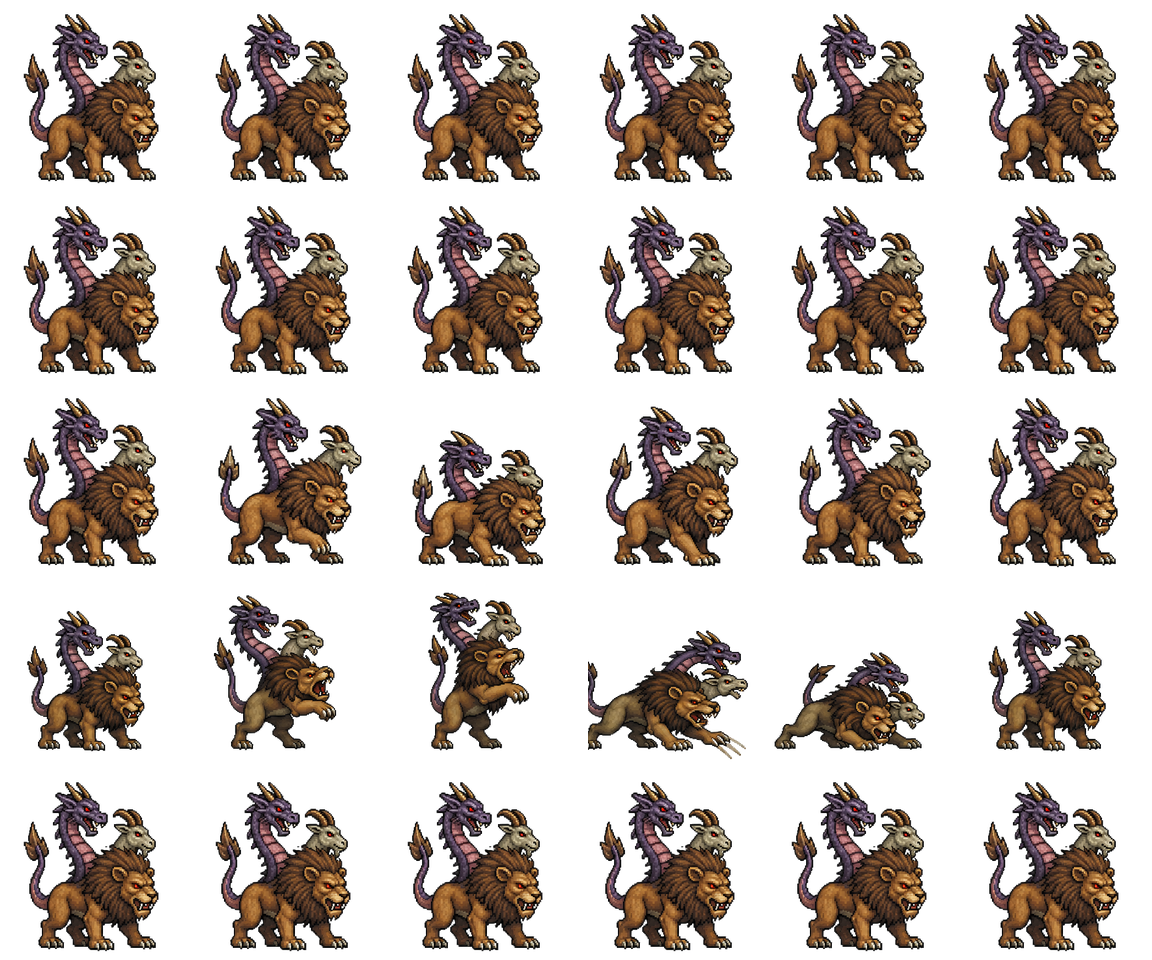
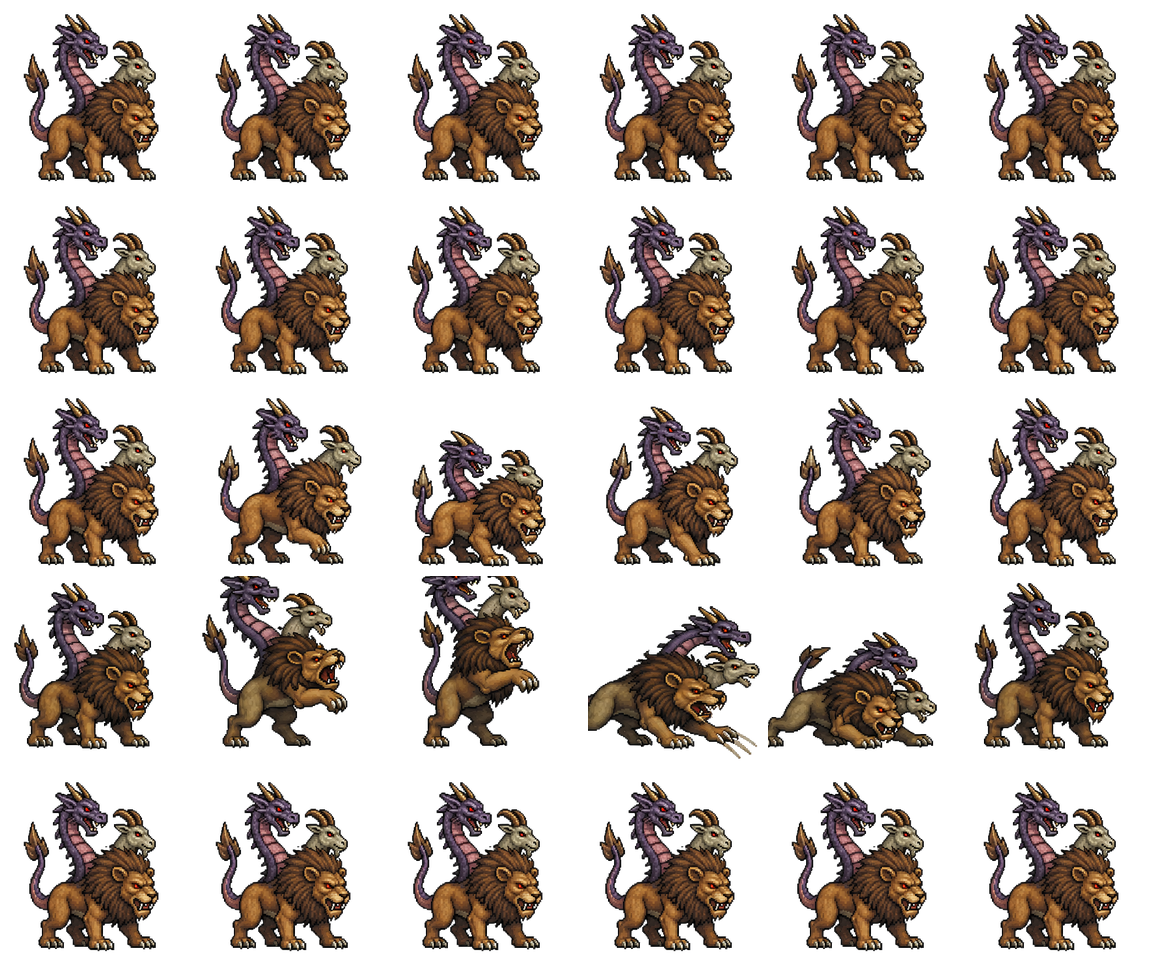
sprite: _extract.py の attack 体高を walk へ自動フィットし 10 シートのサイズ変動を解消
攻撃モーションに切り替わった瞬間にキャラの見かけの大きさが変わる不具合の B 系
(source_images/<dir>/_extract.py 経路) を潰す。A 系 (codex1 packer) は 9706173 で対応済み。

真因は「fs 共有の有無」ではなかった。対象 10 本のうち 6 本 (chimera/griffon/umber_hulk/
shadowBeast/mimic/direBear) は **既に shared_fs で walk と attack の fs を共有していた**
のに -22%〜+6% ずれていた。fs を共有しても出力体高は素材そのものの寄り(ズーム)差を
そのまま引き継ぐためで、fs 共有だけでは直らない。

- tools/attack_scale_fit.py を新設。fit_attack_fs() が attack の fs だけを反復調整し、
  体高中央値が walk と一致するところで止める。出力スケールは OUT_CELL/fs なので
  更新式は fs <- fs * (attack体高 / walk体高)。全 10 本が 1〜2 反復で収束した。
  体高計測は check_attack_scale.py の cell_metrics を import 共有 (抽出時と検証時で
  物差しを揃えるため複製しない)。
- fs を変えても出力上の足元位置は (fs - round(fs*0.05))/fs*OUT_CELL ≒ 0.95*OUT_CELL で
  fs 非依存なので、本補正はスケールだけを動かし立ち位置には触れない。実測でも feet の
  ずれは ±2px 以内に収まった (192px セルなら 1%)。
- cleric だけは出荷済み cleric_attack.png を焼いたスクリプトがリポジトリに無かったので
  source_images/cleric/_extract_attack.py を新設 (attack のみ・walk は読むだけ)。旧経路の
  normalize_attack_to_walk_height は **bbox 高**を揃える処理で、メイスを振り上げる攻撃では
  武器で bbox が伸びるため体高が +13.79% ずれて出荷されていた。あわせて足元揃え
  (walk と同じ y=91) も再現し、feetdx を +0.0 に戻した。
- index.html: 焼き直した 10 本の ?v= を bump。cleric_attack は ?v= 付き/無しの
  2 箇所に重複リテラルがあったので両方を ?v=3 に統一した。golem_soldier_attack /
  undead_squad_attack は ?v= を新設。walk シートは不変なので bump しない。
- source_images/ は .gitignore 済みのため _extract.py 側の改修はローカルのみ。

検証:
- check_attack_scale: 対象 10 本すべて |delta| < 5% (最悪 -0.36%)。
  WARN 11 -> 1 (残りは rat_bat のみ = source_images 不在につき別項目)。
  対象外 66 シートの delta 変化 0 件 (HEAD worktree との JSON 突き合わせ)。
[…]

diff --git a/index.html b/index.html
@@ -3776,7 +3776,7 @@
                  guard: WARRIOR_GUARD },
       dwarf:   { walk: 'url("assets/dwarf_walk.png?v=5")',   attack: 'url("assets/dwarf_attack.png?v=5")',
                  walkSize: "576px 384px", attackSize: "480px 384px" },
-      cleric:  { walk: 'url("assets/cleric_walk.png")',  attack: 'url("assets/cleric_attack.png")',
+      cleric:  { walk: 'url("assets/cleric_walk.png")',  attack: 'url("assets/cleric_attack.png?v=3")',
                  walkSize: "576px 384px", attackSize: "480px 384px" },
       mage:    { walk: 'url("assets/mage_walk.png?v=4")',    attack: 'url("assets/mage_attack.png?v=4")',
                  walkSize: "576px 384px", attackSize: "480px 384px" },
@@ -6264,7 +6264,7 @@
         name: "盗賊重装兵",
         flavor: "略奪した鎧を纏う前衛",
         badge: "🛡",
-        sprite: "assets/banditHeavy_anim.png?v=1",
+        sprite: "assets/banditHeavy_anim.png?v=2",
         sheetW: 576, sheetH: 480,
         frameW: 96, frameH: 96, cols: 6, rowOffset: 0,
         displaySize: 88,
@@ -6310,7 +6310,7 @@
         name: "残影の獣",
         flavor: "盗賊が捕えた六本足の黒豹、檻を破れば敵味方の区別なく襲う",
         badge: "🐾",
-        sprite: "assets/shadowBeast_anim.png?v=3",
+        sprite: "assets/shadowBeast_anim.png?v=4",
         sheetW: 1152, sheetH: 960,
         frameW: 192, frameH: 192, cols: 6, rowOffset: 0,
         displaySize: 192,                  // 2 タイル分の大型ミニボス
@@ -6479,7 +6479,7 @@
         name: "偽宝箱(ミミック)",
         flavor: "宝箱に擬態する古典の罠。触れた者を粘液で捉える",
         badge: "🧰",
-        sprite: "assets/mimic_anim.png?v=1",
+        sprite: "assets/mimic_anim.png?v=2",
         sheetW: 1152, sheetH: 960,
         frameW: 192, frameH: 192, cols: 6, rowOffset: 0,
         displaySize: 100,
@@ -6559,7 +6559,7 @@
         name: "Dire Bear",      // 2026-06-27: 表示名を英語化(怒れる巨熊→Dire Bear)
         flavor: "戦後の混乱に乗じて人里に下りた巨大な熊。手負いになるほど狂暴に吼える",
         badge: "🐻",
-        sprite: "assets/direBear_anim.png?v=1",   // 専用スプライト (2026-06-22 ChatGPT生成→192px大型ボス規格で抽出)
+        sprite: "assets/direBear_anim.png?v=2",   // 専用スプライト (2026-06-22 ChatGPT生成→192px大型ボス規格で抽出)
         sheetW: 1152, sheetH: 960,
         frameW: 192, frameH: 192, cols: 6, rowOffset: 0,
         displaySize: 220,                         // 大型ボスの威容 (歩行~103px / 立ち上がり咆哮~194px)
@@ -6585,7 +6585,7 @@
         name: "キマイラ",
         flavor: "獅子・山羊・竜の三つ首を持つ有翼の合成獣",
         badge: "🦁",
-        sprite: "assets/chimera_anim.png?v=1",  // 専用スプライト (獅子・山羊・竜の三つ首)
+        sprite: "assets/chimera_anim.png?v=2",  // 専用スプライト (獅子・山羊・竜の三つ首)
         sheetW: 1152, sheetH: 960,
         frameW: 192, frameH: 192, cols: 6, rowOffset: 0,
         displaySize: 260,                       // 2倍サイズ (192px原寸→アップスケール)
@@ -6615,7 +6615,7 @@
         name: "グリフォン",
         flavor: "鷲の翼と獅子の胴を持つ猛禽。空から急降下し鉤爪で獲物を引き裂く",
         badge: "🦅",
-        sprite: "assets/griffon_anim.png?v=1",  // 専用スプライト (2026-07-03 ChatGPT生成→192px大型ボス規格で抽出)
+        sprite: "assets/griffon_anim.png?v=2",  // 専用スプライト (2026-07-03 ChatGPT生成→192px大型ボス規格で抽出)
         sheetW: 1152, sheetH: 960,
         frameW: 192, frameH: 192, cols: 6, rowOffset: 0,
         displaySize: 240,                        // 2倍サイズ (192px原寸→アップスケール)
@@ -6644,7 +6644,7 @@
         name: "アンバーハルク",
         flavor: "岩を掘り進む甲殻の巨獣。四つの目が放つ眩惑の視線が正気を惑わす",
         badge: "🪲",
-        sprite: "assets/umber_hulk_anim.png?v=1",   // 専用スプライト (2026-07-03 生成・direBear と幾何完全一致)
+        sprite: "assets/umber_hulk_anim.png?v=2",   // 専用スプライト (2026-07-03 生成・direBear と幾何完全一致)
         sheetW: 1152, sheetH: 960,
         frameW: 192, frameH: 192, cols: 6, rowOffset: 0,
         displaySize: 240,                          // 2倍サイズ (192px原寸→アップスケール)
@@ -11350,7 +11350,7 @@
     const DWARF_ATTACK_SIZE = "480px 384px";
     const CLERIC_WALK_URL   = 'url("assets/cleric_walk.png?v=2")';
     const CLERIC_WALK_SIZE  = "576px 384px";
-    const CLERIC_ATTACK_URL = 'url("assets/cleric_attack.png?v=2")';
+    const CLERIC_ATTACK_URL = 'url("assets/cleric_attack.png?v=3")';
     const CLERIC_ATTACK_SIZE = "480px 384px";
     const MAGE_WALK_URL     = 'url("assets/mage_walk.png?v=4")';
     const MAGE_WALK_SIZE    = "576px 384px";
@@ -11423,8 +11423,8 @@
         { walk: 'url("assets/rogue_scout_walk.png")',    walkSize: "576px 384px", attack: 'url("assets/rogue_scout_attack.png")',    attackSize: "480px 384px", label: "影の斥候" },
       ],
       // ── 闇市 召喚ユニット (M8): 専用 96px×6F シート (walk 576×384 / attack 480×384) ──
-      golem_soldier: [ { walk: 'url("assets/golem_soldier_walk.png")', walkSize: "576px 384px", attack: 'url("assets/golem_soldier_attack.png")', attackSize: "480px 384px", label: "ゴーレム兵" } ],
-      undead_squad:  [ { walk: 'url("assets/undead_squad_walk.png")',  walkSize: "576px 384px", attack: 'url("assets/undead_squad_attack.png")',  attackSize: "480px 384px", label: "アンデッド小隊" } ],
+      golem_soldier: [ { walk: 'url("assets/golem_soldier_walk.png")', walkSize: "576px 384px", attack: 'url("assets/golem_soldier_attack.png?v=2")', attackSize: "480px 384px", label: "ゴーレム兵" } ],
+      undead_squad:  [ { walk: 'url("assets/undead_squad_walk.png")',  walkSize: "576px 384px", attack: 'url("assets/undead_squad_attack.png?v=2")',  attackSize: "480px 384px", label: "アンデッド小隊" } ],
     };
     // 職業 + 変種index → スプライトセット。範囲外indexは正規(0)に丸める。未登録職は null。
     function getSpriteSet(classKey, variant) {

diff --git a/tavern.html b/tavern.html
@@ -1979,10 +1979,10 @@
     <div id="changelogBox">
       <div class="changelogHeader">📜 更新情報</div>
       <ul class="changelogList">
+        <li><b>大型モンスターと僧侶の攻撃も実寸に</b> — キメラやグリフォン、アンバーハルク、残影の獣、ミミックなどが攻撃の瞬間だけ一回り小さく見えていたのを直しました。僧侶のメイス攻撃も歩く姿と同じ背丈になります。</li>
         <li><b>攻撃モーションの大きさのブレを解消</b> — ゴブリンやオーク、リザードマン、古代ハイドラなど10種で、攻撃した瞬間に体が一回り縮んで見える現象を直しました。</li>
         <li><b>石の魔物には魔法の武器を</b> — 盗賊の不意打ちやドワーフの斧など、これまで素通りしていた技も石の巨人には弾かれ、ガーゴイルには半減するようになった。</li>
         <li><b>ガーゴイルは石の体で刃を鈍らせる</b> — 魔法の武器でなければ受けるダメージが半分になる。</li>
-        <li><b>砦の守護者にガーゴイルが加わった</b> — 中庭の外周を固めていた動く鎧が、翼と角を持つ石の魔獣に。硬いが動きは速く、鎧より当てやすい。</li>
       </ul>
     </div>
     <script>

diff --git a/tools/attack_scale_fit.py b/tools/attack_scale_fit.py
@@ -1,0 +1,141 @@
+#!/usr/bin/env python3
+"""walk と attack の「体高」を揃えるための共有ヘルパー (source_images/*/_extract.py 用)。
+
+■ 何のためのモジュールか
+  `_extract.py` は素材 PNG から fs (= 元画像ピクセル単位の正方クロップ辺長) を決め、
+  そのクロップを OUT_CELL へ縮小する。したがって
+
+      出力上のキャラ体高  ∝  OUT_CELL / fs
+
+  walk と attack で fs を共有しても、**素材そのものの「寄り(ズーム)」が違う**と
+  出力体高はズレたままになる (実測: fs 共有済みの 6 シートが -22%〜+6% 残っていた)。
+  本モジュールは **attack 側の fs だけ**を反復調整して walk の体高中央値に合わせる。
+
+■ 不変条件 (壊すと当たり判定と絵の対応が崩れる)
+  - walk 側は一切触らない。呼び出し側は walk のフレーム (または体高中央値) を
+    「動かせない基準」として渡すだけ。
+  - 体高の物差しは tools/check_attack_scale.py の cell_metrics を **import して共有**する。
+    物差しを複製すると「直したのに WARN が消えない」が起きる。
+  - fs を変えても出力上の足元位置は動かない:
+      feet_out = (fs - round(fs*0.05)) / fs * OUT_CELL ≒ 0.95 * OUT_CELL   (fs 非依存)
+    つまり本補正は純粋にスケールだけを動かし、立ち位置には触れない。
+
+■ 使い方 (_extract.py 側)
+    import sys, os
+    sys.path.insert(0, os.path.join(BASE, "..", "..", "tools"))
+    from attack_scale_fit import fit_attack_fs
+
+    walk_frames = extract_frames(walk_path, N, ..., fs_override=shared_fs)
+    attack_frames, atk_fs, d = fit_attack_fs(
+        walk_frames,
+        lambda fs: extract_frames(attack_path, N, ..., fs_override=fs),
+        shared_fs, label="chimera")
+"""
+import os
+import sys
+
+import numpy as np
+
+# tools/ を import パスへ (どの cwd から _extract.py を叩かれても動くように)
+_TOOLS_DIR = os.path.dirname(os.path.abspath(__file__))
+if _TOOLS_DIR not in sys.path:
+    sys.path.insert(0, _TOOLS_DIR)
+
+# 物差しは検証ツールと同一のものを共有する (複製厳禁)
+from check_attack_scale import cell_metrics  # noqa: E402
+
+DEFAULT_TOL_PCT = 1.0     # これ以下の |delta| で収束とみなす (体感閾値 5〜6% に対し十分小さい)
+DEFAULT_MAX_ITER = 6
+MIN_FS = 16               # 安全下限 (これ以下に縮めると素材の情報が壊れる)
+
+
+def _alpha_of(img):
+    return np.array(img.convert("RGBA"))[:, :, 3]
+
+
+def median_body_height(frames):
+    """セル画像リストの bodyH 中央値。完全透明セルは除外。frames が空/全透明なら 0.0。"""
+    vals = []
+    for im in frames or []:
+        m = cell_metrics(_alpha_of(im))
+        if m:
+            vals.append(m["bodyH"])
+    return float(np.median(vals)) if vals else 0.0
+
+
+def edge_touch_report(frames, alpha_threshold=64):
+    """フレーム群のうち、不透明画素がセルの上端/左端/右端に接している枚数を数える。
+
+    fs を縮める (= 寄る) 補正では原理的に見切れが起こり得るので、その検出用。
+    戻り値: dict(top=int, left=int, right=int, n=int)
+    """
+    top = left = right = 0
+    n = 0
+    for im in frames or []:
+        a = _alpha_of(im) > alpha_threshold
+        if not a.any():
+            continue
+        n += 1
+        if a[0, :].any():
+            top += 1
+        if a[:, 0].any():
+            left += 1
+        if a[:, -1].any():
+            right += 1
+    return dict(top=top, left=left, right=right, n=n)
+
+
+def fit_attack_fs(walk_ref, make_attack, fs_start, *, tol_pct=DEFAULT_TOL_PCT,
+                  max_iter=DEFAULT_MAX_ITER, label="attack", min_fs=MIN_FS, verbose=True):
+    """attack の fs を反復調整し、walk の体高中央値に合わせたフレーム群を返す。
+
+    walk_ref   : walk のセル画像リスト、または walk の bodyH 中央値 (float)
+    make_attack: fs -> attack セル画像リスト を返す callable
+    fs_start   : 初期 fs (従来どおりのロジックで決めた値)
+
+    戻り値: (frames, fs, delta_pct)
+      delta_pct = (attack体高 - walk体高) / walk体高 * 100
+
+    出力上のスケールは OUT_CELL/fs なので、attack を k 倍したければ fs を 1/k 倍する。
+    そのため更新式は  fs <- fs * (attack体高 / walk体高)  になる。
+    """
+    target = walk_ref if isinstance(walk_ref, (int, float)) else median_body_height(walk_ref)
+    if not target:
+        # walk の基準が取れないなら従来挙動 (fs_start) をそのまま使う
+        frames = make_attack(fs_start)
+        if verbose:
+            print(f"  [fit:{label}] walk 基準が取得できないため fs={fs_start} を据え置き")
+        return frames, fs_start, 0.0
+
+    fs = int(fs_start)
+    best = None  # (abs_delta, frames, fs, delta)
+    for it in range(max_iter):
+        frames = make_attack(fs)
+        atk = median_body_height(frames)
+        if not atk:
+            if verbose:
+                print(f"  [fit:{label}] attack が全透明 (fs={fs}) — 打ち切り")
+            return frames, fs, 0.0
+        delta = (atk - target) / target * 100.0
+        if best is None or abs(delta) < best[0]:
+            best = (abs(delta), frames, fs, delta)
+        if verbose:
+            print(f"  [fit:{label}] iter{it}: fs={fs} bodyH walk={target:.1f} "
+                  f"attack={atk:.1f} delta={delta:+.2f}%")
+        if abs(delta) <= tol_pct:
+            break
+        new_fs = max(min_fs, int(round(fs * atk / target)))
+        if new_fs == fs:
+            break  # 整数丸めで動かない = 収束限界
+        fs = new_fs
+
+    _, frames, fs, delta = best
+    if verbose:
+        et = edge_touch_report(frames)
+        print(f"  [fit:{label}] 採用 fs={fs} delta={delta:+.2f}%  "
+              f"(edge touch top={et['top']}/{et['n']} left={et['left']} right={et['right']})")
+    return frames, fs, delta
+
+
+if __name__ == "__main__":  # 単体では何もしない (import 専用モジュール)
+    print(__doc__)
